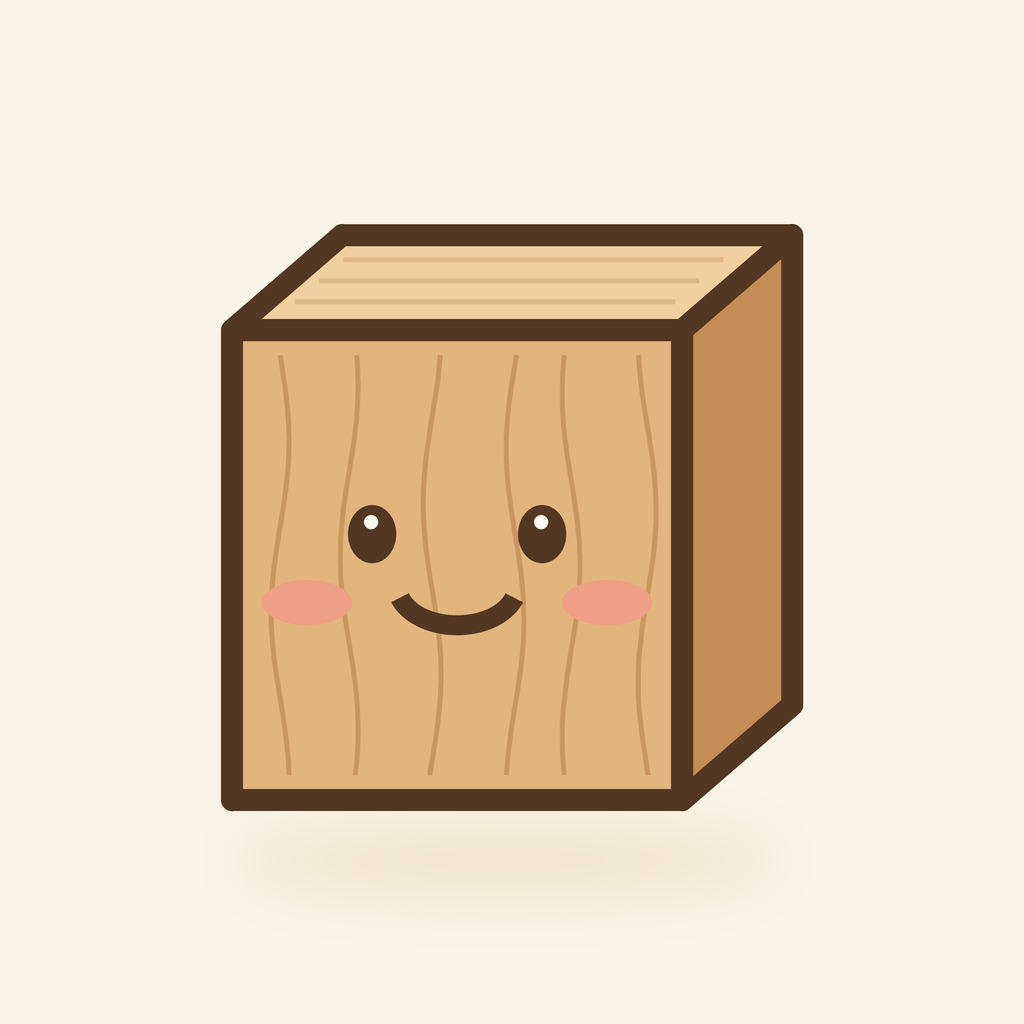
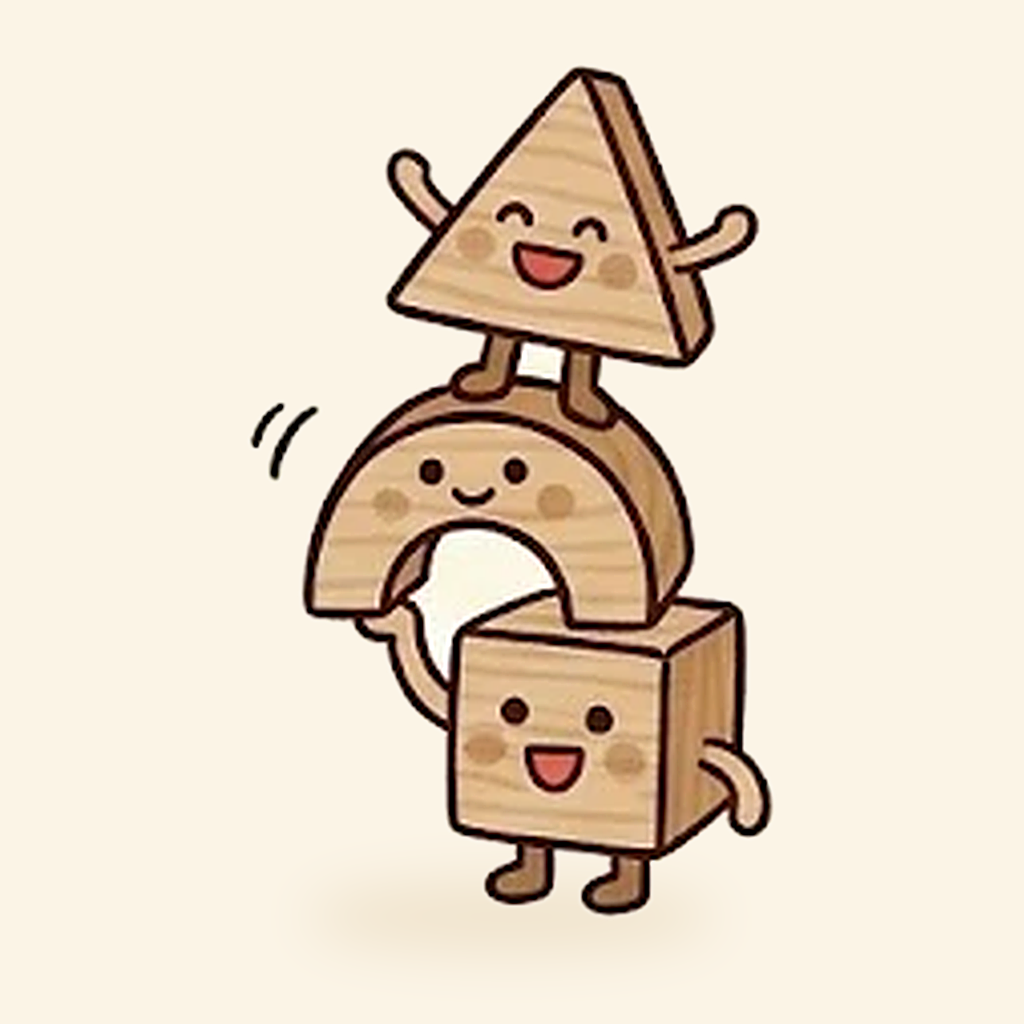
表記をひらがな「こつみ」に統一、アイコン更新

diff --git a/index.html b/index.html
@@ -3,8 +3,8 @@
 <head>
   <meta charset="UTF-8" />
   <meta name="viewport" content="width=device-width, initial-scale=1.0" />
-  <title>Kotsumi サポート</title>
-  <meta name="description" content="Kotsumi（コツミ）は、つぎの1時間を積み木のなかまが1つだけ提案してくれる、コツコツ積み上げるためのアプリです。" />
+  <title>こつみ サポート</title>
+  <meta name="description" content="こつみは、つぎの1時間を積み木のなかまが1つだけ提案してくれる、コツコツ積み上げるためのアプリです。" />
   <link rel="icon" href="assets/icon.png" />
   <link rel="preconnect" href="https://fonts.googleapis.com" />
   <link href="https://fonts.googleapis.com/css2?family=Zen+Maru+Gothic:wght@400;700;900&display=swap" rel="stylesheet" />
@@ -13,15 +13,15 @@
 <body>
   <main>
     <header>
-      <img src="assets/icon.png" alt="Kotsumi のアイコン" />
+      <img src="assets/icon.png" alt="こつみ のアイコン" />
       <div>
-        <h1>Kotsumi</h1>
-        <p class="soft">1時間ずつ、コツコツ積み上げる</p>
+        <h1>こつみ</h1>
+        <p class="soft">地道にコツコツ積み上げる</p>
       </div>
     </header>
 
     <div class="hero">
-      <p>やりたいことはたくさんあるのに、気づけば1日が終わっている。<br />Kotsumi は「つぎの1時間、これどう？」と1つだけ声をかけてくれる、積み木のなかまたちのアプリです。</p>
+      <p>やりたいことはたくさんあるのに、気づけば1日が終わっている。<br />こつみ は「つぎの1時間、これどう？」と1つだけ声をかけてくれる、積み木のなかまたちのアプリです。</p>
       <img src="assets/stack.png" alt="積み重なった積み木のなかまたち" />
     </div>
 
@@ -30,7 +30,7 @@
       <dt>ログインは必要ですか？</dt>
       <dd>いりません。インストールするとすぐに使えます（裏側で匿名のアカウントを作り、記録を保存しています）。</dd>
       <dt>通知が届きません</dt>
-      <dd>iPhone の「設定」→「通知」→「Kotsumi」で通知を許可してください。アプリの「目標」画面でも通知のオン／オフを切り替えられます。</dd>
+      <dd>iPhone・iPad の「設定」→「通知」→「こつみ」で通知を許可してください。アプリの「目標」画面でも通知のオン／オフを切り替えられます。</dd>
       <dt>今日の自由時間はどうやって決まりますか？</dt>
       <dd>「目標」画面の「生活リズム」（起きる・寝る・しごとの時間と曜日）から計算しています。合わない場合はそこで直してください。</dd>
       <dt>予定の時間を変えたい</dt>

diff --git a/privacy-policy.html b/privacy-policy.html
@@ -3,7 +3,7 @@
 <head>
   <meta charset="UTF-8" />
   <meta name="viewport" content="width=device-width, initial-scale=1.0" />
-  <title>プライバシーポリシー - Kotsumi</title>
+  <title>プライバシーポリシー - こつみ</title>
   <link rel="icon" href="assets/icon.png" />
   <link rel="preconnect" href="https://fonts.googleapis.com" />
   <link href="https://fonts.googleapis.com/css2?family=Zen+Maru+Gothic:wght@400;700;900&display=swap" rel="stylesheet" />
@@ -12,14 +12,14 @@
 <body>
   <main>
     <header>
-      <img src="assets/icon.png" alt="Kotsumi のアイコン" />
+      <img src="assets/icon.png" alt="こつみ のアイコン" />
       <div>
         <h1>プライバシーポリシー</h1>
         <p class="soft">最終更新日：2026年10月5日</p>
       </div>
     </header>
 
-    <p>Kotsumi（以下「本アプリ」）は、個人開発の習慣化・時間管理アプリです。本アプリが扱う情報と、その使い方を説明します。</p>
+    <p>こつみ（以下「本アプリ」）は、個人開発の習慣化・時間管理アプリです。本アプリが扱う情報と、その使い方を説明します。</p>
 
     <h2>1. 取得する情報</h2>
     <ul>
